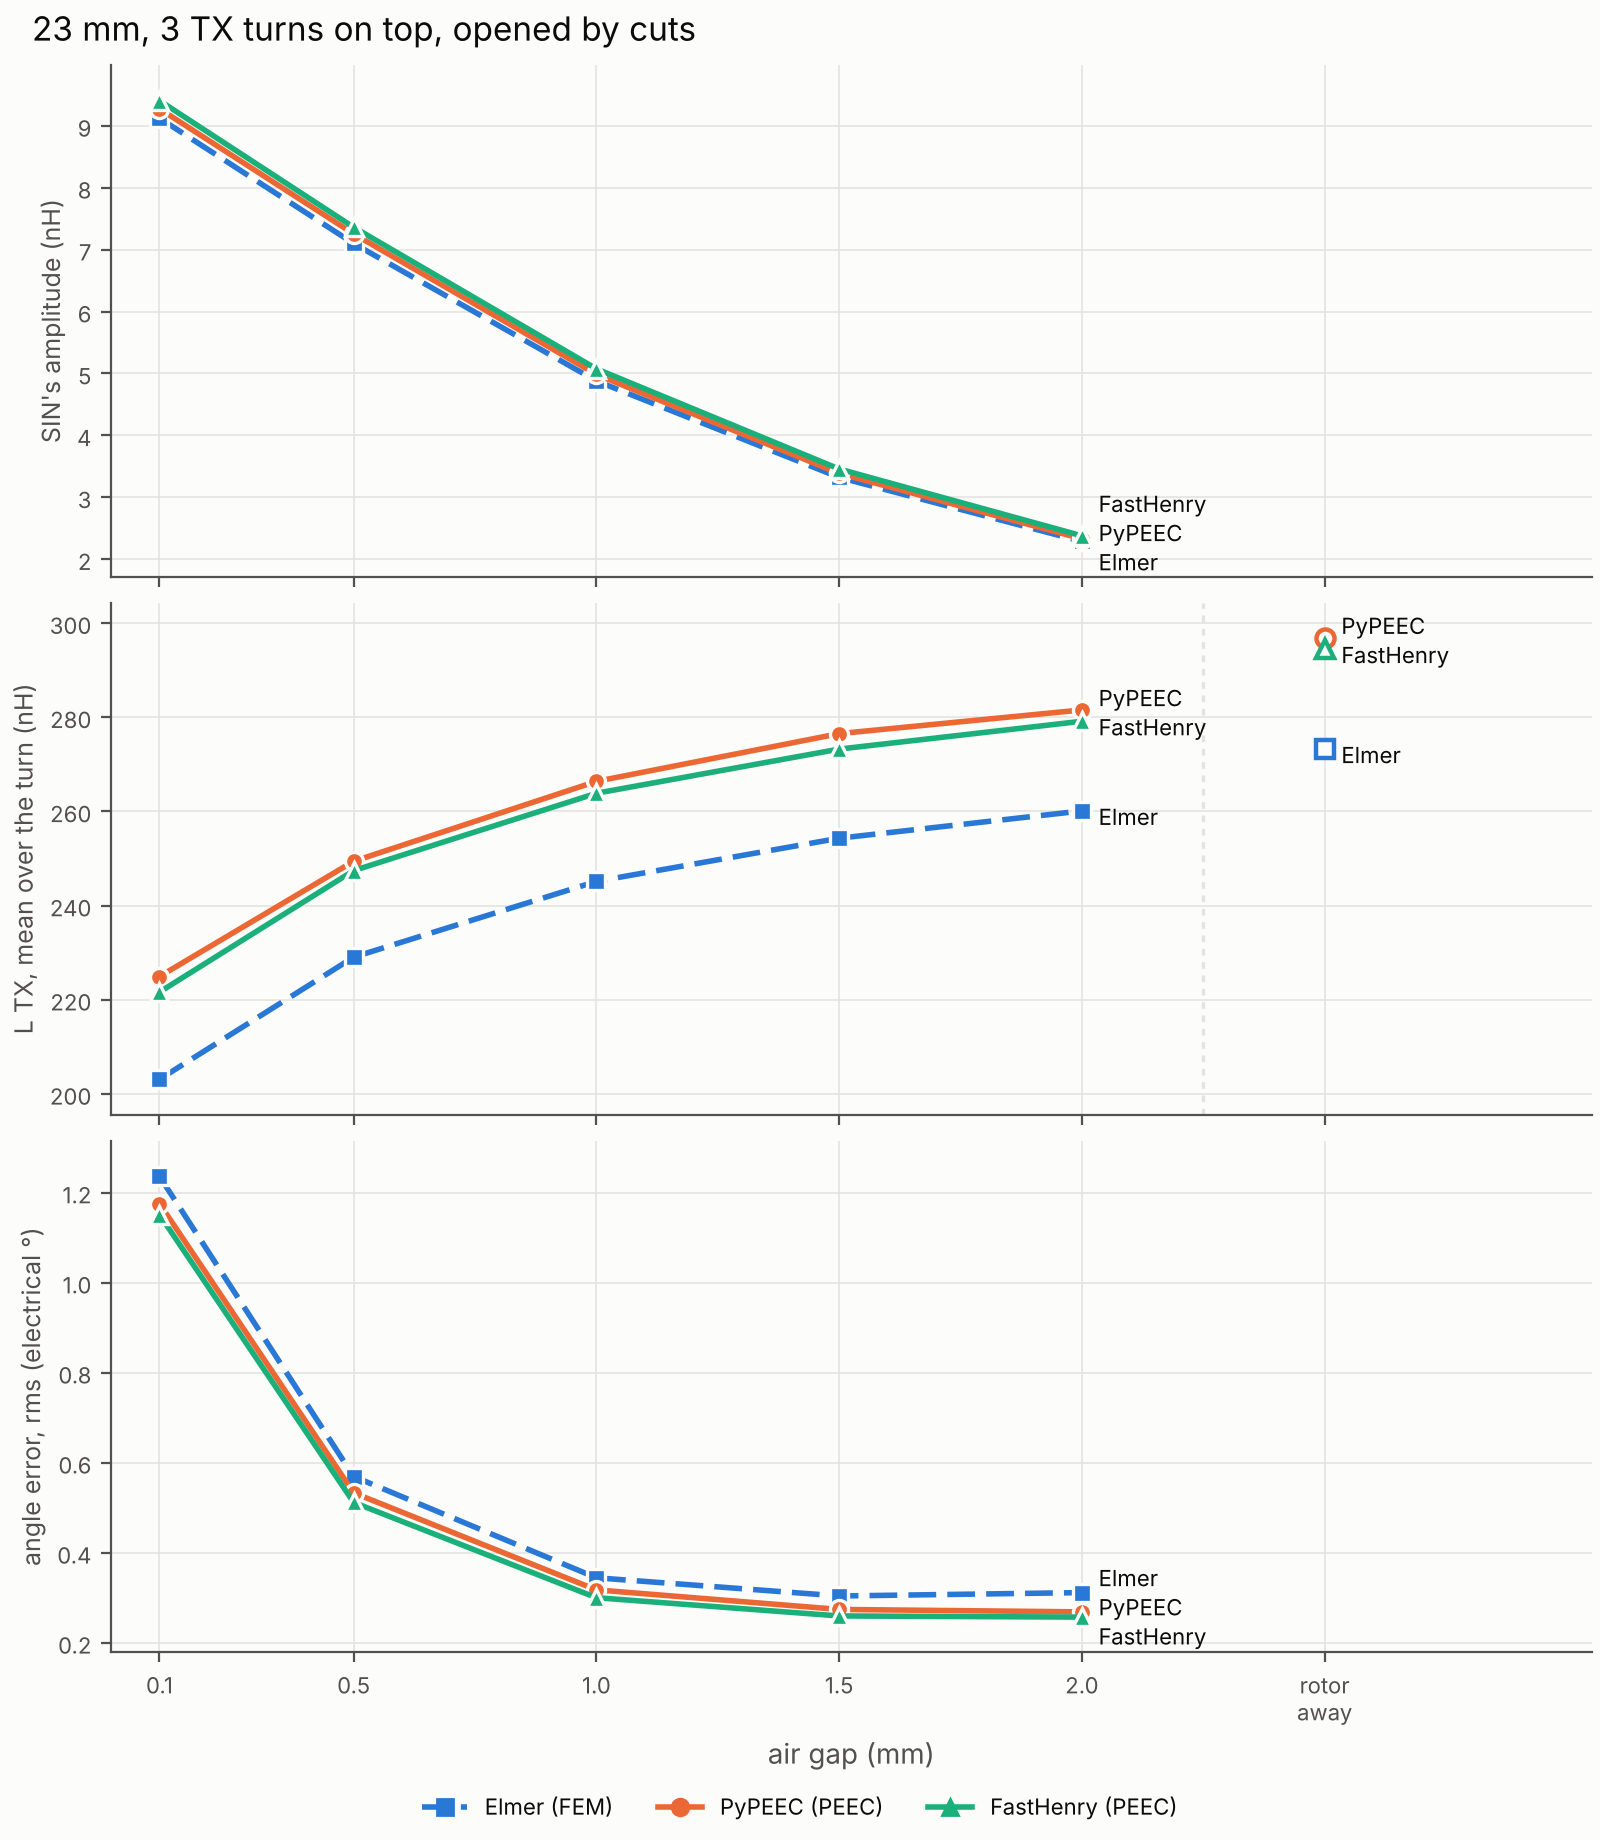
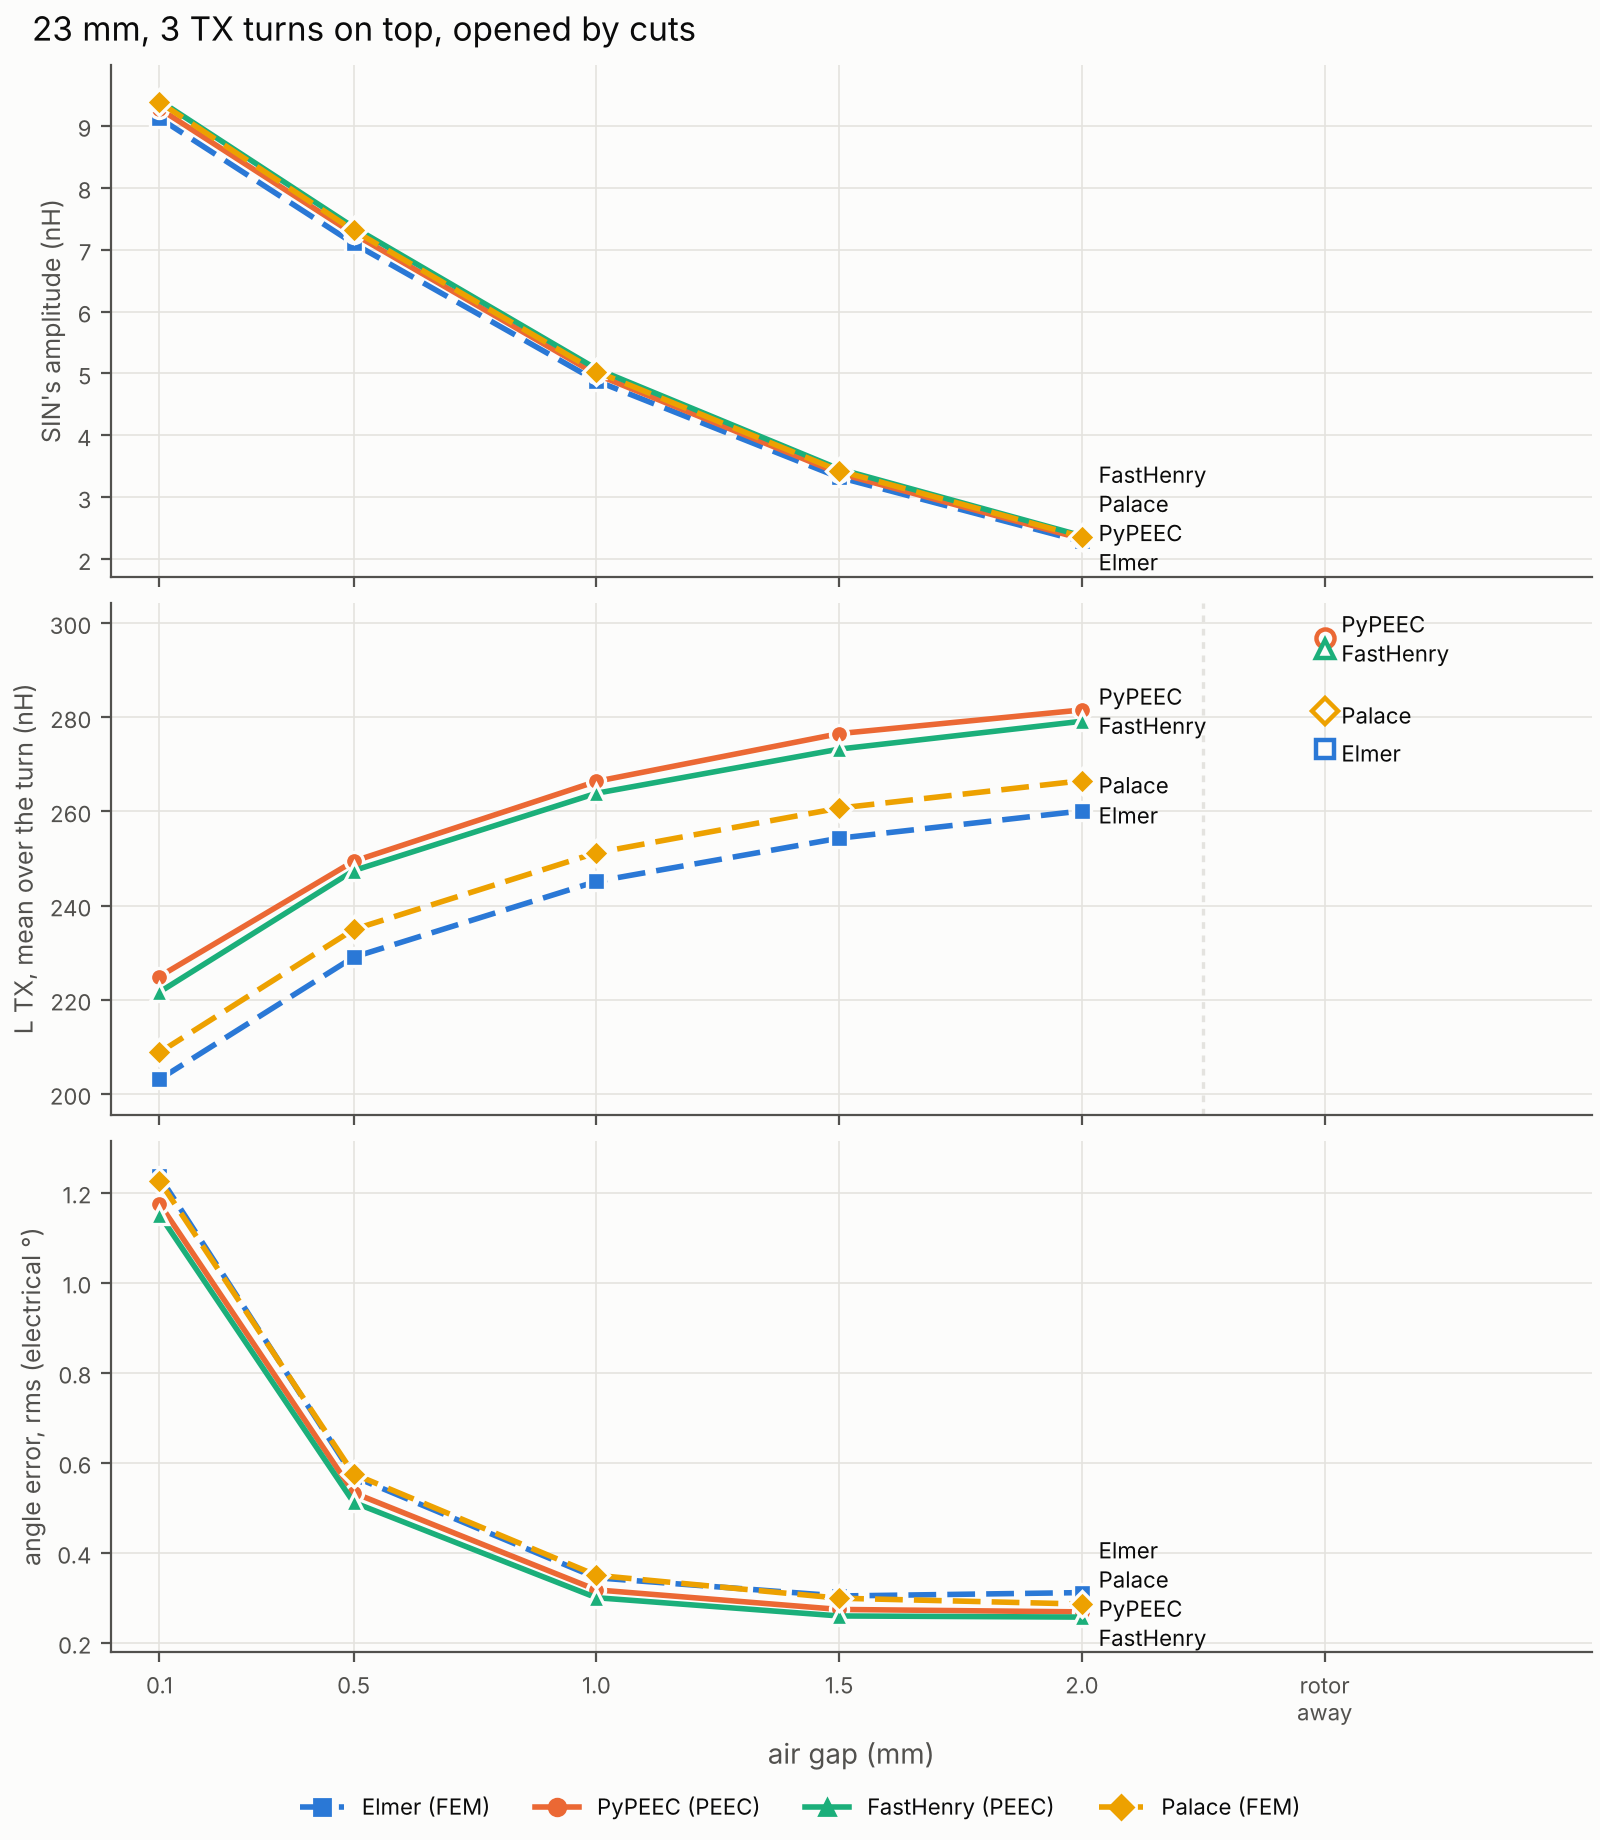
Add Palace's 23 mm board opened by cuts

diff --git a/Comparisons/S0_1x_OD23_2L_tiny_TX3top_Cut.md b/Comparisons/S0_1x_OD23_2L_tiny_TX3top_Cut.md
@@ -9,20 +9,21 @@
 | Elmer | 5 | 40 | 40 |
 | PyPEEC | 5 | 40 | 40 |
 | FastHenry | 5 | 40 | 40 |
-| Palace | 0 (still solving) | 0 | 0 |
+| Palace | 5 | 40 | 40 |
 | Theory | worked out from the copper by hand formulas, nothing to solve | — | — |
 
 Against FastHenry, the yardstick (the closest to the reference on the proof boards):
 
 - **Elmer** (FEM): the coupling (SIN's and COS's amplitude) is 3.7 % under FastHenry's on average over the 5 gaps both have finished (−4.0 to −3.0 %); L TX is 7.3 % under (−8.4 to −6.8 %); the rms angle error is within 0.09° of FastHenry's (electrical degrees).
 - **PyPEEC** (PEEC): the coupling (SIN's and COS's amplitude) is 1.8 % under FastHenry's on average over the 5 gaps both have finished (−2.2 to −1.4 %); L TX is 1.1 % over (+0.8 to +1.5 %); the rms angle error is within 0.02° of FastHenry's (electrical degrees).
-- **Palace** has not finished a gap of this board yet; it is still solving.
+- **Palace** (FEM): the coupling (SIN's and COS's amplitude) is 0.7 % under FastHenry's on average over the 5 gaps both have finished (−0.9 to −0.3 %); L TX is 4.9 % under (−5.8 to −4.5 %); the rms angle error is within 0.07° of FastHenry's (electrical degrees).
 
 Against the hand values (the Theory rows, worked out in [Formulas](#formulas)): with the rotor away, L TX has to lie between about 289.2 nH (all the current at the copper's surface) and 295.6 nH (its DC value, the most it can be at any frequency), and R TX can be no less than its DC resistance, 379.4 mΩ.
 
 - **Elmer**: L TX with the rotor away 273.3 nH, 5.5 % under the high-frequency limit; R TX 438 mΩ, 15.6 % over its DC value.
 - **PyPEEC**: L TX with the rotor away 296.7 nH, 0.4 % over the DC value, the most it can be; R TX 472 mΩ, 24.5 % over its DC value.
 - **FastHenry**: L TX with the rotor away 294.6 nH, inside the hand values; R TX 413 mΩ, 8.9 % over its DC value.
+- **Palace**: L TX with the rotor away 281.4 nH, 2.7 % under the high-frequency limit; R TX 441 mΩ, 16.3 % over its DC value.
 
 ![OD23 Cut against the air gap](../charts/S0_1x_OD23_2L_tiny_TX3top_Cut.webp)
 
@@ -38,6 +39,7 @@ Against the hand values (the Theory rows, worked out in [Formulas](#formulas)): 
 | Elmer | 4.879 | 4.882 | 245.1 | 273.3 | 455 | 0.344 | 0.560 | 8 |
 | PyPEEC | 4.984 | 4.986 | 266.4 | 296.7 | 493 | 0.318 | 0.489 | 8 |
 | FastHenry | 5.074 | 5.081 | 263.8 | 294.6 | 436 | 0.300 | 0.418 | 8 |
+| Palace | 5.031 | 5.037 | 251.2 | 281.4 | 463 | 0.350 | 0.450 | 8 |
 
 ## Every air gap
 
@@ -45,65 +47,65 @@ In the Theory column: L TX can be no more than its DC value and R TX no less tha
 
 **SIN's amplitude (nH)**
 
-| Air gap | Elmer | PyPEEC | FastHenry | Theory |
-|---|---|---|---|---|
-| 0.1 mm | 9.123 | 9.276 | 9.407 | — |
-| 0.5 mm | 7.099 | 7.255 | 7.361 | — |
-| 1 mm | 4.879 | 4.984 | 5.074 | — |
-| 1.5 mm | 3.321 | 3.386 | 3.457 | — |
-| 2 mm | 2.286 | 2.329 | 2.377 | — |
+| Air gap | Elmer | PyPEEC | FastHenry | Palace | Theory |
+|---|---|---|---|---|---|
+| 0.1 mm | 9.123 | 9.276 | 9.407 | 9.381 | — |
+| 0.5 mm | 7.099 | 7.255 | 7.361 | 7.309 | — |
+| 1 mm | 4.879 | 4.984 | 5.074 | 5.031 | — |
+| 1.5 mm | 3.321 | 3.386 | 3.457 | 3.427 | — |
+| 2 mm | 2.286 | 2.329 | 2.377 | 2.360 | — |
 
 **COS's amplitude (nH)**
 
-| Air gap | Elmer | PyPEEC | FastHenry | Theory |
-|---|---|---|---|---|
-| 0.1 mm | 9.125 | 9.276 | 9.410 | — |
-| 0.5 mm | 7.101 | 7.256 | 7.367 | — |
-| 1 mm | 4.882 | 4.986 | 5.081 | — |
-| 1.5 mm | 3.324 | 3.387 | 3.462 | — |
-| 2 mm | 2.287 | 2.330 | 2.382 | — |
+| Air gap | Elmer | PyPEEC | FastHenry | Palace | Theory |
+|---|---|---|---|---|---|
+| 0.1 mm | 9.125 | 9.276 | 9.410 | 9.385 | — |
+| 0.5 mm | 7.101 | 7.256 | 7.367 | 7.315 | — |
+| 1 mm | 4.882 | 4.986 | 5.081 | 5.037 | — |
+| 1.5 mm | 3.324 | 3.387 | 3.462 | 3.434 | — |
+| 2 mm | 2.287 | 2.330 | 2.382 | 2.365 | — |
 
 **L TX, mean over the turn (nH)**
 
-| Air gap | Elmer | PyPEEC | FastHenry | Theory |
-|---|---|---|---|---|
-| 0.1 mm | 203.1 | 224.9 | 221.6 | ≤ 295.6 |
-| 0.5 mm | 229.0 | 249.4 | 247.4 | ≤ 295.6 |
-| 1 mm | 245.1 | 266.4 | 263.8 | ≤ 295.6 |
-| 1.5 mm | 254.3 | 276.5 | 273.2 | ≤ 295.6 |
-| 2 mm | 260.1 | 281.5 | 279.1 | ≤ 295.6 |
+| Air gap | Elmer | PyPEEC | FastHenry | Palace | Theory |
+|---|---|---|---|---|---|
+| 0.1 mm | 203.1 | 224.9 | 221.6 | 208.8 | ≤ 295.6 |
+| 0.5 mm | 229.0 | 249.4 | 247.4 | 234.9 | ≤ 295.6 |
+| 1 mm | 245.1 | 266.4 | 263.8 | 251.2 | ≤ 295.6 |
+| 1.5 mm | 254.3 | 276.5 | 273.2 | 260.7 | ≤ 295.6 |
+| 2 mm | 260.1 | 281.5 | 279.1 | 266.5 | ≤ 295.6 |
 
 **R TX, mean over the turn (mΩ)**
 
-| Air gap | Elmer | PyPEEC | FastHenry | Theory |
-|---|---|---|---|---|
-| 0.1 mm | 498 | 532 | 472 | ≥ 379.4 |
-| 0.5 mm | 467 | 504 | 446 | ≥ 379.4 |
-| 1 mm | 455 | 493 | 436 | ≥ 379.4 |
-| 1.5 mm | 449 | 487 | 430 | ≥ 379.4 |
-| 2 mm | 446 | 483 | 426 | ≥ 379.4 |
+| Air gap | Elmer | PyPEEC | FastHenry | Palace | Theory |
+|---|---|---|---|---|---|
+| 0.1 mm | 498 | 532 | 472 | 505 | ≥ 379.4 |
+| 0.5 mm | 467 | 504 | 446 | 474 | ≥ 379.4 |
+| 1 mm | 455 | 493 | 436 | 463 | ≥ 379.4 |
+| 1.5 mm | 449 | 487 | 430 | 458 | ≥ 379.4 |
+| 2 mm | 446 | 483 | 426 | 454 | ≥ 379.4 |
 
 **Angle error, rms (electrical °)**
 
-| Air gap | Elmer | PyPEEC | FastHenry | Theory |
-|---|---|---|---|---|
-| 0.1 mm | 1.236 | 1.175 | 1.151 | 0 |
-| 0.5 mm | 0.569 | 0.533 | 0.512 | 0 |
-| 1 mm | 0.344 | 0.318 | 0.300 | 0 |
-| 1.5 mm | 0.304 | 0.274 | 0.260 | 0 |
-| 2 mm | 0.311 | 0.269 | 0.257 | 0 |
+| Air gap | Elmer | PyPEEC | FastHenry | Palace | Theory |
+|---|---|---|---|---|---|
+| 0.1 mm | 1.236 | 1.175 | 1.151 | 1.226 | 0 |
+| 0.5 mm | 0.569 | 0.533 | 0.512 | 0.575 | 0 |
+| 1 mm | 0.344 | 0.318 | 0.300 | 0.350 | 0 |
+| 1.5 mm | 0.304 | 0.274 | 0.260 | 0.299 | 0 |
+| 2 mm | 0.311 | 0.269 | 0.257 | 0.286 | 0 |
 
 ## Against FastHenry, gap by gap
 
 Each solver's value over FastHenry's at the same gap: SIN's amplitude, and in brackets L TX. In the Theory column, in brackets, the most L TX can be (its DC value) over FastHenry's L TX; there is no hand value for the amplitude.
 
-| Air gap | Elmer | PyPEEC | Theory |
-|---|---|---|---|
-| 0.1 mm | 0.970 (0.916) | 0.986 (1.015) | — (≤ 1.334) |
-| 0.5 mm | 0.964 (0.926) | 0.986 (1.008) | — (≤ 1.195) |
-| 1 mm | 0.962 (0.929) | 0.982 (1.010) | — (≤ 1.121) |
-| 1.5 mm | 0.961 (0.931) | 0.980 (1.012) | — (≤ 1.082) |
-| 2 mm | 0.962 (0.932) | 0.980 (1.009) | — (≤ 1.059) |
+| Air gap | Elmer | PyPEEC | Palace | Theory |
+|---|---|---|---|---|
+| 0.1 mm | 0.970 (0.916) | 0.986 (1.015) | 0.997 (0.942) | — (≤ 1.334) |
+| 0.5 mm | 0.964 (0.926) | 0.986 (1.008) | 0.993 (0.949) | — (≤ 1.195) |
+| 1 mm | 0.962 (0.929) | 0.982 (1.010) | 0.991 (0.952) | — (≤ 1.121) |
+| 1.5 mm | 0.961 (0.931) | 0.980 (1.012) | 0.992 (0.954) | — (≤ 1.082) |
+| 2 mm | 0.962 (0.932) | 0.980 (1.009) | 0.993 (0.955) | — (≤ 1.059) |
 
 ## The hand values and the generator's estimates
 
@@ -116,6 +118,7 @@ The Theory row is worked out from the TX copper alone (see [Formulas](#formulas)
 | Elmer | 273.3 | 5.5 % under the high-frequency limit | −6.4 % | 203.1 | 245.1 | 438 |
 | PyPEEC | 296.7 | 0.4 % over the DC value, the most it can be | +1.6 % | 224.9 | 266.4 | 472 |
 | FastHenry | 294.6 | inside the hand values | +0.9 % | 221.6 | 263.8 | 413 |
+| Palace | 281.4 | 2.7 % under the high-frequency limit | −3.6 % | 208.8 | 251.2 | 441 |
 
 ## Time and memory
 
@@ -126,9 +129,10 @@ Each branch records the wall time and the peak memory of every solve. They all r
 | Elmer | 279 | 160 to 392 | 13.3 |
 | PyPEEC | 384 | 212 to 639 | 1.6 to 3.4 |
 | FastHenry | 143 | 142 to 145 | 0.9 |
+| Palace | 188 | 134 to 306 | 6.9 to 11.4 |
 | Theory | 45 (once for the board: both of Neumann's sums) | — | 2.0 |
 
-A receiver whose plus terminal sits on the other side in one branch comes out turned over; here Elmer COS, PyPEEC COS is turned back to match FastHenry. Amplitudes and angle errors are the same either way.
+A receiver whose plus terminal sits on the other side in one branch comes out turned over; here Elmer COS, Palace COS, Palace SIN, PyPEEC COS is turned back to match FastHenry. Amplitudes and angle errors are the same either way.
 
 ## Formulas
 

diff --git a/README.md b/README.md
@@ -7,7 +7,7 @@ KESE exports a KiCad board's copper and stackup for electromagnetic solvers. Fou
 | Elmer | FEM (finite elements, the A-V eddy-current formulation) | `Elmer_Integration` | 6 | 280 | 280 |
 | PyPEEC | PEEC (partial elements on voxels, FFT-accelerated) | `PyPEEC_Integration` | 6 | 280 | 280 |
 | FastHenry | PEEC (partial elements on filaments, direct solve) | `FastHenry_Integration` | 6 | 280 | 280 |
-| Palace | FEM (finite elements, the frequency-domain Maxwell solver) | `Palace_Integration` | 4 (still solving; 20 of 30 gaps) | 160 | 160 |
+| Palace | FEM (finite elements, the frequency-domain Maxwell solver) | `Palace_Integration` | 5 (still solving; 25 of 30 gaps) | 200 | 200 |
 | Theory | hand formulas: Neumann's integral over the TX copper, its DC resistance ([Formulas](#formulas)) | this one (`scripts/theory.py`) | 6 | — | — |
 
 Each integration branch keeps its own solver's results, settings and checks, and knows nothing of the others. The numbers here are read from those branches unchanged by `scripts/collect.py`. The two FEM solvers mesh the air around the copper and close it at an outer boundary; the two PEEC solvers model only the copper, and the air's field comes from the free-space formulas, with no mesh and no boundary.
@@ -20,7 +20,7 @@ This page shows one board, S0d2_1x_OD23_2L_tiny_TX3top_Cut. Every board has its 
 | [S0_1x_OD21_2L_tiny_TXtop](Comparisons/S0_1x_OD21_2L_tiny_TXtop.md) | S0 TXtop: S0 with the TX two turns on the top layer (the generator narrows the RX band to fit them) | 2.35 / 2.43 / 2.48 / 2.42 | 129.1 to 133.0 |
 | [S0_1x_OD22_2L_tiny_TXtop](Comparisons/S0_1x_OD22_2L_tiny_TXtop.md) | OD22 TXtop: the TX two turns on the top layer around S0's own RX coils, the board grown to 22.2 mm | 3.26 / 3.38 / 3.43 / 3.37 | 143.2 to 147.4 |
 | [S0_1x_OD22_2L_tiny_TXtop_Cut](Comparisons/S0_1x_OD22_2L_tiny_TXtop_Cut.md) | OD22 Cut: the 22 mm board with SIN and COS opened by a 0.2 mm cut in a top trace instead of a left-out via | 3.26 / 3.34 / 3.40 / 3.37 | 143.2 to 147.4 |
-| [S0_1x_OD23_2L_tiny_TX3top_Cut](Comparisons/S0_1x_OD23_2L_tiny_TX3top_Cut.md) | OD23 Cut: the TX three turns on the top layer around S0's RX coils, 23.4 mm, opened by cuts | 4.88 / 4.98 / 5.07 / — | 289.2 to 295.6 |
+| [S0_1x_OD23_2L_tiny_TX3top_Cut](Comparisons/S0_1x_OD23_2L_tiny_TX3top_Cut.md) | OD23 Cut: the TX three turns on the top layer around S0's RX coils, 23.4 mm, opened by cuts | 4.88 / 4.98 / 5.07 / 5.03 | 289.2 to 295.6 |
 | [S0d2_1x_OD23_2L_tiny_TX3top_Cut](Comparisons/S0d2_1x_OD23_2L_tiny_TX3top_Cut.md) | S0d2: the three-turn 23 mm board with two electrical periods per turn and a rotor of two sectors, so the curves repeat every 180°; solved at 16 angles over the whole turn | 4.51 / 4.61 / 4.73 / — | 289.2 to 295.6 |
 
 There is no hand formula for the SIN amplitude; the Theory column gives the range L TX must lie in with the rotor away (see [Formulas](#formulas)).
